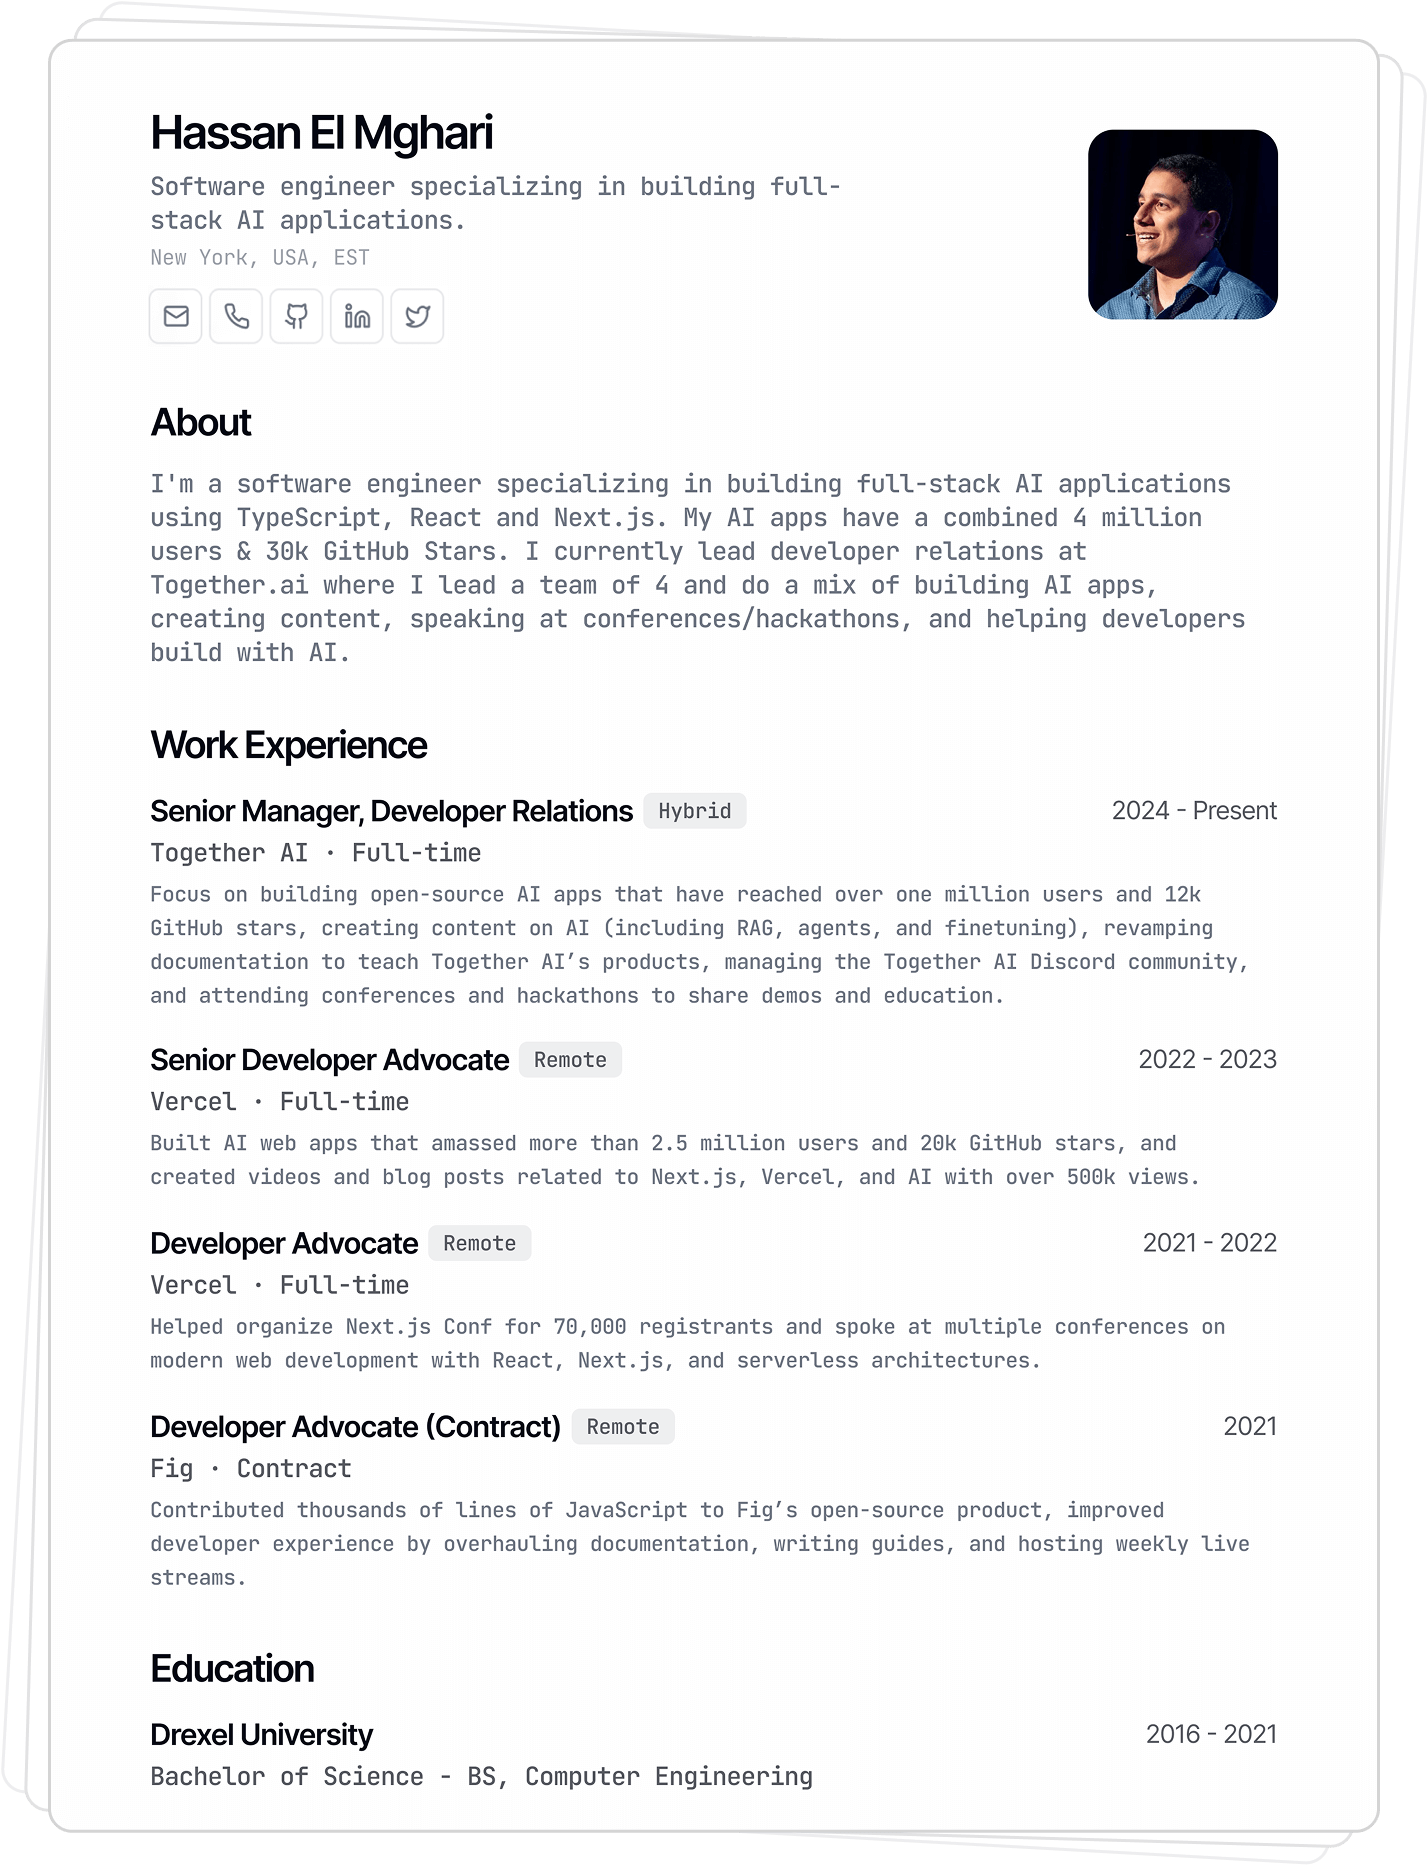
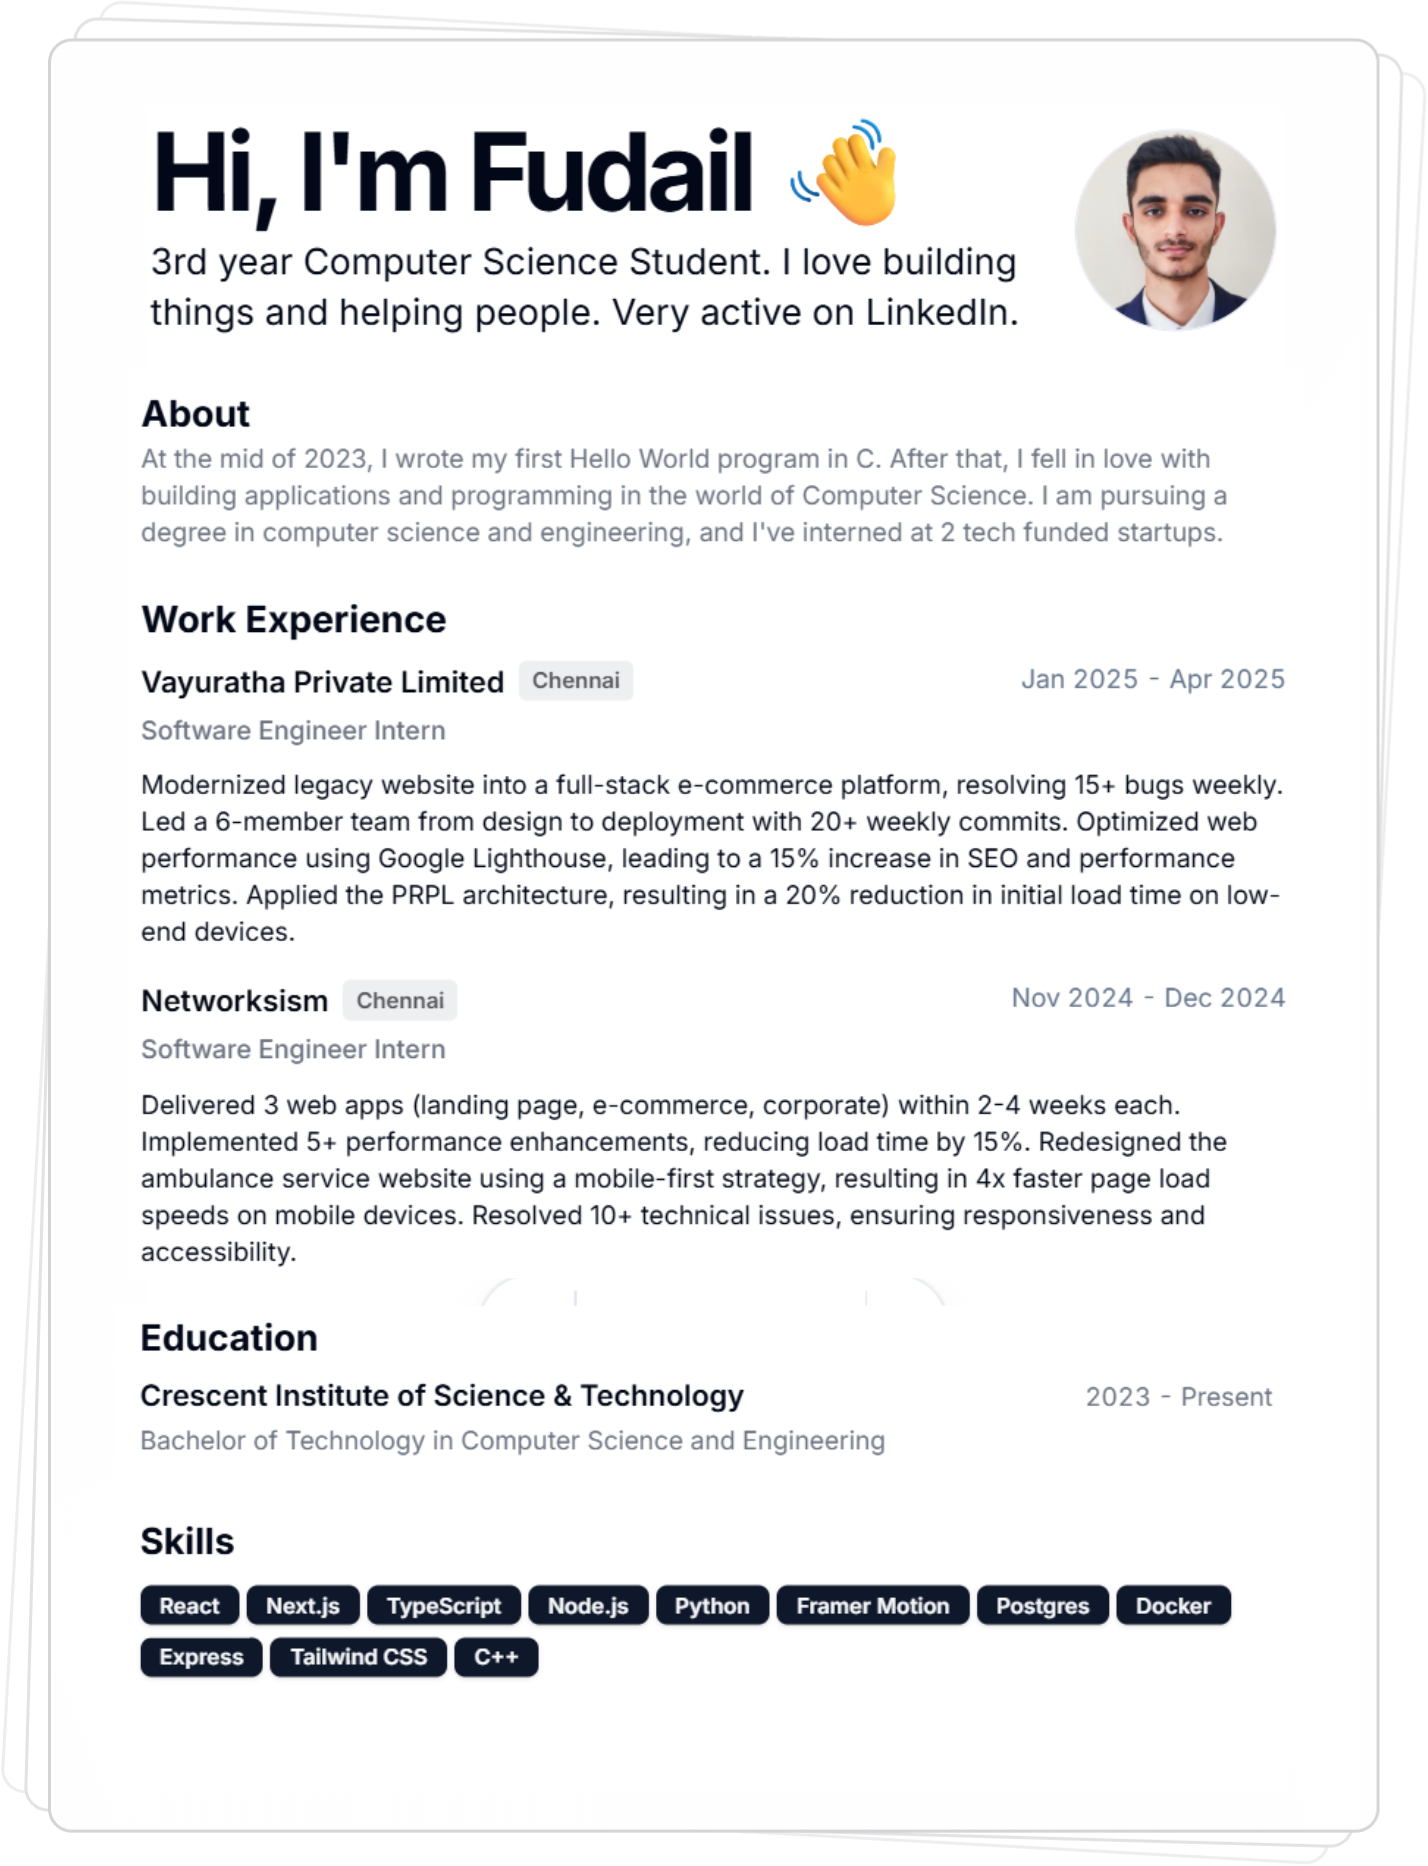
chore: rebrand to Portfoliofy

diff --git a/app/[username]/page.tsx b/app/[username]/page.tsx
@@ -14,30 +14,30 @@ export async function generateMetadata({
 
   if (!user_id) {
     return {
-      title: 'User Not Found | Self.so',
-      description: 'This user profile could not be found on Self.so',
+      title: 'User Not Found | Portfoliofy',
+      description: 'This user profile could not be found on Portfoliofy',
     };
   }
 
   if (!resume?.resumeData || resume.status !== 'live') {
     return {
-      title: 'Resume Not Found | Self.so',
-      description: 'This resume could not be found on Self.so',
+      title: 'Resume Not Found | Portfoliofy',
+      description: 'This resume could not be found on Portfoliofy',
     };
   }
 
   return {
-    title: `${resume.resumeData.header.name}'s Resume | Self.so`,
+    title: `${resume.resumeData.header.name}'s Resume | Portfoliofy`,
     description: resume.resumeData.summary,
     openGraph: {
-      title: `${resume.resumeData.header.name}'s Resume | Self.so`,
+      title: `${resume.resumeData.header.name}'s Resume | Portfoliofy`,
       description: resume.resumeData.summary,
       images: [
         {
-          url: `https://self.so/${username}/og`,
+          url: `https://portfoliofy.me/${username}/og`,
           width: 1200,
           height: 630,
-          alt: 'Self.so Profile',
+          alt: 'Portfoliofy Profile',
         },
       ],
     },
@@ -69,7 +69,7 @@ export default async function ProfilePage({
     email:
       resume.resumeData.header.contacts.email &&
       `mailto:${resume.resumeData.header.contacts.email}`,
-    url: `https://self.so/${username}`,
+    url: `https://portfoliofy.me/${username}`,
     skills: resume.resumeData.header.skills,
   };
 
@@ -89,7 +89,7 @@ export default async function ProfilePage({
         >
           Made by{' '}
           <span className="text-design-black underline underline-offset-2">
-            Self.so
+            Portfoliofy
           </span>
         </Link>
       </div>

diff --git a/components/Footer.tsx b/components/Footer.tsx
@@ -6,18 +6,18 @@ export function Footer() {
           Powered by{' '}
           <a
             target="_blank"
-            href="https://togetherai.link"
+            href="https://gemini.google.com/"
             className="text-design-black underline underline-offset-2"
           >
-            Together.ai
+            Gemini
           </a>{' '}
           &{' '}
           <a
             target="_blank"
-            href="https://togetherai.link"
+            href="https://aws.amazon.com/"
             className="text-design-black underline underline-offset-2"
           >
-            Llama 3.3
+            AWS
           </a>
         </div>
 
@@ -25,7 +25,7 @@ export function Footer() {
           <a
             target="_blank"
             rel="noopener noreferrer"
-            href="https://github.com/Nutlope/self.so"
+            href="https://github.com/fudailzafar/portfoliofy"
             className="size-6 flex items-center justify-center border-design-gray border rounded-md"
           >
             <img src="/footer/github.svg" className="size-4" />
@@ -34,7 +34,7 @@ export function Footer() {
           <a
             target="_blank"
             rel="noopener noreferrer"
-            href="https://x.com/nutlope"
+            href="https://x.com/fudailzafar"
             className="size-6 flex items-center justify-center border-design-gray border rounded-md"
           >
             <img src="/footer/x.svg" className="size-4" />

diff --git a/app/[username]/og/route.tsx b/app/[username]/og/route.tsx
@@ -1,4 +1,4 @@
-import { ImageResponse } from '@vercel/og';
+import { ImageResponse } from 'next/og';
 import { NextRequest } from 'next/server';
 import { getUserData } from '../utils';
 
@@ -14,7 +14,7 @@ export async function GET(request: NextRequest) {
     const name = resume?.resumeData?.header?.name;
     const role = resume?.resumeData?.header?.shortAbout;
     const location = resume?.resumeData?.header?.location;
-    const website = `www.self.so/${username}`;
+    const website = `www.portfoliofy.me/${username}`;
 
     // Use profile image from Clerk user
     const profileImageUrl = clerkUser?.imageUrl;
@@ -49,8 +49,8 @@ export async function GET(request: NextRequest) {
         >
           <div style={{ display: 'flex', alignItems: 'center' }}>
             <img
-              src="https://self.so/logo.svg"
-              alt="Self.so Logo"
+              src="https://portfoliofy.me/logo.png"
+              alt="Portfoliofy Logo"
               style={{
                 width: '144px',
                 height: '46px',

diff --git a/components/TopMenu.tsx b/components/TopMenu.tsx
@@ -7,7 +7,7 @@ export function TopMenu() {
     <>
       <header className="w-full py-4 md:px-0 px-6 flex justify-between items-center max-w-4xl mx-auto h-[67px]">
         <Link href="/" className="flex items-center gap-2">
-          <img src="/logo.svg" alt="Self.so Logo" className="h-[30px] w-auto" />
+          <img src="/logo.png" alt="Portfoliofy Logo" className="h-[30px] w-auto" />
         </Link>
 
         <div>
@@ -18,7 +18,7 @@ export function TopMenu() {
           <SignedOut>
             <div className="flex flex-row gap-3 font-mono ">
               <a
-                href="https://github.com/nutlope/self.so"
+                href="https://github.com/fudailzafar/portfoliofy"
                 target="_blank"
                 rel="noreferrer"
               >

diff --git a/app/layout.tsx b/app/layout.tsx
@@ -10,8 +10,8 @@ import PlausibleProvider from 'next-plausible';
 const mono = JetBrains_Mono({ subsets: ['latin'] });
 
 export const metadata: Metadata = {
-  metadataBase: new URL('https://self.so'),
-  title: 'Self.so - Resume to Website',
+  metadataBase: new URL('https://portfoliofy.me'),
+  title: 'Portfoliofy - Resume to Website',
   description:
     'LinkedIn to Website in one click! Powered by Together AI and Llama 3.3',
   openGraph: {
@@ -26,7 +26,7 @@ export default function RootLayout({
 }) {
   return (
     <ClerkProvider>
-      <PlausibleProvider domain="self.so">
+      <PlausibleProvider domain="portfoliofy.me">
         <ReactQueryClientProvider>
           <html lang="en">
             <head>

diff --git a/app/page.tsx b/app/page.tsx
@@ -72,7 +72,7 @@ export default function Home() {
 
             {/* Right side - Preview */}
             <div className="w-full md:w-1/2 flex justify-center items-center flex-1 relative max-h-[700px] min-w-[50%] lg:min-w-[500px]">
-              <div className="absolute inset-0 -bottom-4 rounded-3xl bg-black/5 blur-xl h-full"></div>
+              <div className="absolute inset-0 -bottom-4 rounded-3xl h-full"></div>
               <BlurFade delay={0.25} inView>
                 <img
                   src="/cv-home.png"

diff --git a/lib/utils.ts b/lib/utils.ts
@@ -9,6 +9,6 @@ export function getSelfSoUrl(username: string) {
   const domain =
     process.env.NODE_ENV === 'development'
       ? 'http://localhost:3000'
-      : 'https://self.so';
+      : 'https://portfoliofy.me';
   return `${domain}/${username}`;
 }

diff --git a/components/PreviewActionbar.tsx b/components/PreviewActionbar.tsx
@@ -11,7 +11,7 @@ export type PublishStatuses = 'draft' | 'live';
 
 export default function PreviewActionbar({
   initialUsername = '',
-  prefix = 'self.so/',
+  prefix = 'portfoliofy.me/',
   status,
   onStatusChange,
   isChangingStatus,

diff --git a/components/UsernameEditorView.tsx b/components/UsernameEditorView.tsx
@@ -165,7 +165,7 @@ export default function UsernameEditorView({
   initialUsername,
   isOpen,
   onClose,
-  prefix = 'self.so/',
+  prefix = 'portfoliofy.me/',
 }: {
   initialUsername: string;
   isOpen: boolean;

diff --git a/README.md b/README.md
@@ -1,6 +1,6 @@
-<a href="https://www.self.so">
+<a href="https://www.portfoliofy.me">
   <img alt="Self" src="./public/og.png">
-  <h1 align="center">Self</h1>
+  <h1 align="center">Portfoliofy</h1>
 </a>
 
 <p align="center">
